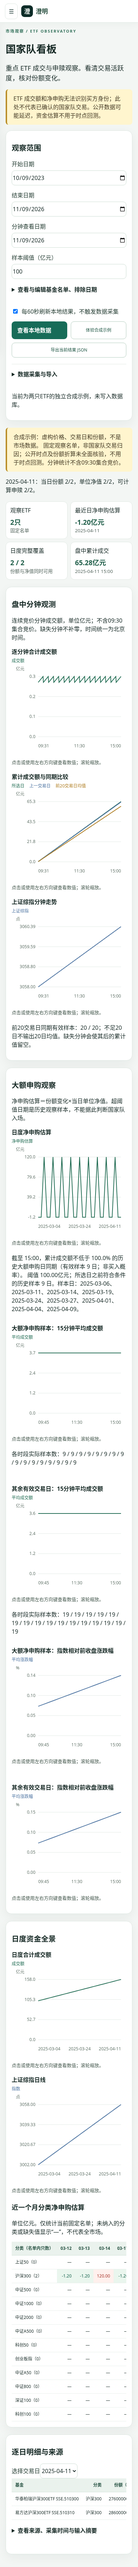
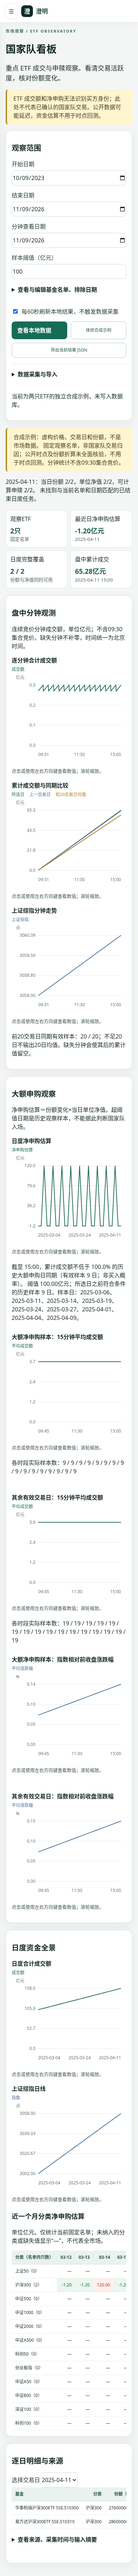
Report empty ETF responses and latest daily collection counts

diff --git a/src/ai_quant_assistant/web/static/national-team.js b/src/ai_quant_assistant/web/static/national-team.js
@@ -9,13 +9,17 @@
       return {code: parts[0].toUpperCase(), name: parts[1], group: parts[2]};
     });
   }
+  function countsText(counts) {
+    if (!counts) return "旧任务未记录各类返回条数";
+    return `本次接口返回：日线 ${counts.daily||0} 条、份额 ${counts.shares||0} 条、净值 ${counts.nav||0} 条、分钟 ${counts.minute||0} 条（含已存储的重复记录）`;
+  }
   function pathFor(points, key, x, y) {
     let path = "", open = false;
     points.forEach((p, i) => { const value = numeric(p[key]); if (value === null || !Number.isFinite(value)) {open = false; return;}
       path += `${open ? "L" : "M"}${x(i).toFixed(2)},${y(value).toFixed(2)} `; open = true;
     }); return path;
   }
-  if (typeof module !== "undefined") module.exports = {money, numeric, parseFunds, pathFor};
+  if (typeof module !== "undefined") module.exports = {money, numeric, parseFunds, pathFor, countsText};
   if (typeof document === "undefined") return;
   const $ = id => document.getElementById(id), api = "/api/v1/national-team";
   const el = (tag, text, cls) => {const node = document.createElement(tag); if(text !== undefined) node.textContent = text; if(cls) node.className=cls; return node;};
@@ -55,8 +59,8 @@
   function render(data){observers.forEach(o=>o.disconnect());observers=[];current=data;$("nt-results").hidden=false;$("nt-banner").textContent=(data.demo?"合成示例：虚构价格、交易日和份额，不是市场数据。 ":"")+data.warning;
     const last=data.daily.at(-1),lastMinute=[...data.minute].reverse().find(p=>p.cumulative!==null&&p.cumulative!==undefined);
     $("nt-metrics").replaceChildren();for(const [label,value,note] of [["观察ETF",data.funds.length+"只","固定名单"],["最近日净申购估算",last?.flow==null?"待补齐":money(last.flow)+"亿元",last?.date||"暂无数据"],["日度完整覆盖",(last?.covered||0)+" / "+data.funds.length,"份额与净值同时可用"],["盘中累计成交",money(lastMinute?.cumulative)+"亿元",data.selected_day+" "+(lastMinute?.time||"待更新")]]){const card=el("div",undefined,"nt-metric");card.append(el("span",label),el("strong",value),el("small",note));$("nt-metrics").append(card);}
-    const sourceErrors=(data.batches||[]).flatMap(b=>b.errors||[]);
-    $("nt-coverage").textContent=last?`${last.date}：当日份额 ${(last.details||[]).filter(x=>x.shares!=null).length}/${data.funds.length}，单位净值 ${(last.details||[]).filter(x=>x.nav!=null).length}/${data.funds.length}，可计算申赎 ${last.covered}/${data.funds.length}。`+(last.covered<data.funds.length?" 缺失原因见逐日明细。收盘后净值或份额可能尚未披露；自动分钟采集不会补齐日度数据。":"")+(sourceErrors.length?" 最近来源错误："+sourceErrors.slice(0,8).map(e=>e.partition+"："+(e.reason||e.error)+(e.http_status?" HTTP "+e.http_status:"")).join("；"):""):"暂无交易日数据。";
+    const sourceErrors=data.latest_daily?.result?.errors||[];
+    $("nt-coverage").textContent=last?`${last.date}：当日份额 ${(last.details||[]).filter(x=>x.shares!=null).length}/${data.funds.length}，单位净值 ${(last.details||[]).filter(x=>x.nav!=null).length}/${data.funds.length}，可计算申赎 ${last.covered}/${data.funds.length}。`+(last.covered<data.funds.length?" 缺失原因见逐日明细。收盘后净值或份额可能尚未披露；自动分钟采集不会补齐日度数据。":"")+(data.latest_daily?" 最近日度任务 "+data.latest_daily.start+" 至 "+data.latest_daily.end+"，结束于 "+data.latest_daily.completed_at+"；"+countsText(data.latest_daily.result?.received_counts)+"。":" 未找到与当前名单和日期匹配的已结束日度任务。")+(sourceErrors.length?" 该任务来源提示："+sourceErrors.slice(0,8).map(e=>e.partition+"："+(e.reason||e.error)+(e.http_status?" HTTP "+e.http_status:"")).join("；"):""):"暂无交易日数据。";
     const green="#216c53",blue="#4c73a1",gold="#af7d21";
     chart("nt-minute-chart","逐分钟合计成交额",data.minute,[{key:"amount",name:"成交额",color:green}]);
     chart("nt-cumulative-chart","累计成交额与同期比较",data.minute,[{key:"cumulative",name:"所选日",color:green},{key:"previous",name:"上一交易日",color:blue},{key:"mean20",name:"前20交易日均值",color:gold}]);
@@ -70,12 +74,12 @@
     const recent=data.daily.filter(p=>!cutoff||p.date>=cutoff.toISOString().slice(0,10));
     table($("nt-heatmap"),["分类（名单内只数）",...recent.map(p=>p.date.slice(5))],groups.map(g=>[g+"（"+data.funds.filter(f=>f.group===g).length+"）",...recent.map(p=>({text:money(p.groups[g]?.flow),cls:numeric(p.groups[g]?.flow)>0?"nt-positive":numeric(p.groups[g]?.flow)<0?"nt-negative":""}))]));
     $("nt-detail-day").replaceChildren();for(const p of data.daily) {const option=el("option",p.date);option.value=p.date;$("nt-detail-day").append(option);}if(latest)$("nt-detail-day").value=latest;details();
-    $("nt-provenance").textContent=JSON.stringify({batches:data.batches,funds:data.funds,scope:data.scope,start:data.start,end:data.end,version:data.version,threshold:data.threshold,excluded:data.excluded,input_sha256:data.input_sha256,as_of:data.as_of},null,2);
+    $("nt-provenance").textContent=JSON.stringify({latest_daily:data.latest_daily,batches:data.batches,funds:data.funds,scope:data.scope,start:data.start,end:data.end,version:data.version,threshold:data.threshold,excluded:data.excluded,input_sha256:data.input_sha256,as_of:data.as_of},null,2);
   }
   function details(){const p=current?.daily.find(x=>x.date===$("nt-detail-day").value);table($("nt-details"),["基金","分类","份额（份）","单位净值","份额变化","估算净申购（亿元）","成交额（亿元）","缺失原因"],(p?.details||[]).map(x=>[x.name+" "+x.code,x.group,x.shares??"—",x.nav??"—",x.change??"—",x.corporate_action?"折算待核验":money(x.flow),money(x.amount),(x.missing||[]).join("、")||"完整"]));}
   async function query(){const own=++generation,body=scope();$("nt-status").textContent="正在读取本地数据…";try {const data=await request("/query",body);if(own!==generation)return;render(data);dirty=false;$("nt-status").textContent=data.daily.length?"已读取本地数据；编辑参数后须重新查询。":"本地无可用交易日历；可先体验合成示例或同步数据。";} catch(error) {if(own===generation) throw error;}}
   function guard(fn){return async()=>{try{await fn();}catch(e){$("nt-status").textContent=e.message;}};}
-  async function poll(){clearTimeout(taskTimer);if(!taskId)return;try{const t=await request("/tasks/"+encodeURIComponent(taskId));$("nt-task").textContent=t.status+" · "+t.progress+"% · "+t.message+(t.error?" · "+t.error:"")+(t.result?.errors?.length?" · "+t.result.errors.slice(0,5).map(e=>e.partition+":"+(e.reason||e.error)+(e.http_status?" HTTP "+e.http_status:"")).join("；"):"");if(["queued","running"].includes(t.status)){taskTimer=setTimeout(poll,2500);}else{$("nt-resume").hidden=true;sessionStorage.removeItem("nt-task");taskId=null;$("nt-task").textContent+="。请点击查看本地数据刷新结果。";}}catch(e){$("nt-task").textContent="进度查询失败："+e.message;$("nt-resume").hidden=false;}}
+  async function poll(){clearTimeout(taskTimer);if(!taskId)return;try{const t=await request("/tasks/"+encodeURIComponent(taskId));$("nt-task").textContent=t.status+" · "+t.progress+"% · "+t.message+(t.result?" · "+(t.result.mode==="minute"?"分钟采集":"日度采集")+" "+(t.result.start||"")+" 至 "+(t.result.end||"")+" · "+countsText(t.result.received_counts):"")+(t.error?" · "+t.error:"")+(t.result?.errors?.length?" · "+t.result.errors.slice(0,5).map(e=>e.partition+":"+(e.reason||e.error)+(e.http_status?" HTTP "+e.http_status:"")).join("；"):"");if(["queued","running"].includes(t.status)){taskTimer=setTimeout(poll,2500);}else{$("nt-resume").hidden=true;sessionStorage.removeItem("nt-task");taskId=null;$("nt-task").textContent+="。请点击查看本地数据刷新结果。";}}catch(e){$("nt-task").textContent="进度查询失败："+e.message;$("nt-resume").hidden=false;}}
   function confirmed(){if(!$("nt-confirm").checked)throw Error("请勾选确认后再采集或更改计划");}
   async function sync(mode){confirmed();const t=await request("/sync",{...scope(),mode,confirm:true});taskId=t.task_id;sessionStorage.setItem("nt-task",taskId);poll();}
   async function schedule(enabled){confirmed();const result=await request("/schedule",{scope:scope(),enabled,confirm:true});$("nt-schedule").textContent=result.enabled?"交易时段自动采集已启用（服务器统一运行）；关闭页面后仍执行。":"自动采集已停止；已提交的任务会完成。";}

diff --git a/src/ai_quant_assistant/storage/national_team.py b/src/ai_quant_assistant/storage/national_team.py
@@ -3,6 +3,7 @@
 import hashlib
 import json
 import time
+from collections import Counter
 from datetime import UTC, date, datetime, timedelta
 from decimal import Decimal, InvalidOperation
 from threading import RLock
@@ -94,6 +95,7 @@ class NationalTeamService:
 
     def save(self, spec, rows, source, errors=(), task_id=None, owner=None):
         rows = validate_rows(rows, max_rows=600000)
+        received_counts = dict(Counter(r["kind"] for r in rows))
         batch = "national-team-" + uuid4().hex
         self.database.initialize()
         with self.database.connect() as c:
@@ -116,7 +118,7 @@ class NationalTeamService:
                 if rows:
                     c.executemany("INSERT INTO national_team_observation VALUES (?,?,?,?,?)", [(batch, r["kind"], r["code"], r["stamp"], _canonical(r)) for r in rows])
                 if task_id:
-                    result = _canonical({"batch_id": batch, "records": len(rows), "errors": errors})
+                    result = _canonical({"batch_id": batch, "records": len(rows), "received_counts": received_counts, "mode": spec.get("mode"), "start": spec.get("start"), "end": spec.get("end"), "errors": errors})
                     c.execute("UPDATE operation_task SET status='succeeded',progress=100,message=?,result_json=?,completed_at=CURRENT_TIMESTAMP,updated_at=CURRENT_TIMESTAMP,claim_key=NULL WHERE task_id=? AND owner_id=?", ["已保存；部分来源失败" if errors else "采集完成；覆盖情况以看板为准", result, task_id, owner])
                 c.execute("COMMIT")
             except Exception:
@@ -142,10 +144,19 @@ class NationalTeamService:
         spec = scope.model_dump(mode="json")
         start = (scope.start - timedelta(days=45)).isoformat()
         days = self.days(start, spec["end"])
-        rows, batches = [], []
+        rows, batches, latest_daily = [], [], None
         if self.database.path.is_file():
             with self.database.connect(read_only=True) as c:
                 codes = [f.code for f in scope.funds] + ["INDEX.000001"]
+                tasks = c.execute("""SELECT spec_json,result_json,status,message,completed_at FROM operation_task
+                    WHERE json_extract_string(spec_json,'$.dataset')='national_team'
+                    AND json_extract_string(spec_json,'$.mode')='daily' AND completed_at IS NOT NULL
+                    ORDER BY completed_at DESC LIMIT 30""").fetchall()
+                for t in tasks:
+                    task_spec = json.loads(t[0])
+                    if {f["code"] for f in task_spec["funds"]} == set(codes) - {"INDEX.000001"} and task_spec["start"] <= spec["end"] and task_spec["end"] >= spec["start"]:
+                        latest_daily = {"start": task_spec["start"], "end": task_spec["end"], "completed_at": t[4].isoformat(), "status": t[2], "message": t[3], "result": json.loads(t[1]) if t[1] else None}
+                        break
                 placeholders = ",".join("?" for _ in codes)
                 raw = c.execute(f"""SELECT payload_json, batch_id FROM (
                     SELECT o.*, row_number() OVER (PARTITION BY kind,code,stamp ORDER BY b.created_at DESC,b.batch_id DESC) AS rank
@@ -158,7 +169,7 @@ class NationalTeamService:
                 if ids:
                     batches = [{"batch_id": r[0], "source": r[1], "fetched_at": r[2].isoformat(), "errors": json.loads(r[3])} for r in c.execute("SELECT batch_id,source,created_at,errors_json FROM national_team_batch WHERE batch_id IN (" + ",".join("?" for _ in ids) + ") ORDER BY created_at DESC", ids).fetchall()]
         result = calculate(spec["funds"], days, rows, spec["start"], spec["end"], spec["selected_day"], spec["threshold"], spec["excluded"])
-        result.update(batches=batches, calendar_days=len(days), as_of=datetime.now(UTC).isoformat(),
+        result.update(batches=batches, latest_daily=latest_daily, calendar_days=len(days), as_of=datetime.now(UTC).isoformat(),
                       input_sha256=hashlib.sha256(_canonical(sorted(rows, key=lambda r: (r["kind"], r["code"], r["stamp"]))).encode()).hexdigest())
         return result
 
@@ -245,7 +256,10 @@ class NationalTeamService:
                 if not self.tasks.progress(task_id, owner_id=owner, progress=int(95 * i / len(calls)), message=f"采集 {key}"):
                     return
                 try:
-                    rows.extend(validate_rows(fetch()))
+                    fetched = validate_rows(fetch())
+                    if not fetched:
+                        errors.append({"partition": key, "error": "EmptyResponse", "reason": "接口未返回所请求范围的数据"})
+                    rows.extend(fetched)
                     failures[family] = 0
                 except Exception as exc:
                     # Never include provider URLs, headers or credential values.
@@ -262,7 +276,7 @@ class NationalTeamService:
                     failures[family] = failures.get(family, 0) + 1
             errors.extend({"partition": family, "error": "StoppedAfterFiveFailures", "count": count} for family, count in skipped.items())
             if not rows:
-                self.tasks.fail(task_id, owner_id=owner, message="所有来源均未返回有效记录，已有数据保留", error="请查看各来源错误", result={"errors": errors})
+                self.tasks.fail(task_id, owner_id=owner, message="所有来源均未返回有效记录，已有数据保留", error="请查看各来源错误", result={"errors": errors, "received_counts": {}, "mode": spec["mode"], "start": spec["start"], "end": spec["end"]})
                 return
             self.save(spec, rows, "public:exchange/eastmoney", errors, task_id, owner)
         except Exception as exc:

diff --git a/tests/test_national_team.py b/tests/test_national_team.py
@@ -314,3 +314,31 @@ def test_nav_failure_does_not_prevent_share_collection(app):
     assert result["daily"][0]["details"][0]["missing"] == ["当日单位净值"]
     assert result["daily"][0]["flow"] is None
     assert any(e.get("reason") == "净值分页不完整，未发布此基金净值" for e in result["batches"][0]["errors"])
+
+
+def test_empty_daily_inputs_are_visible_and_received_counts_survive_dedup(app):
+    service = app.state.national_team
+    service.database.initialize()
+    with service.database.connect() as c:
+        for n, day in enumerate(DAYS):
+            c.execute("INSERT INTO trading_calendar(exchange,trade_date,is_open,source,source_batch_id,session_no) VALUES ('SSE',?,TRUE,'fixture','fixture',?)", [day, n])
+    class Provider:
+        def bars(self, code, start, end, minute=False):
+            return [r for r in rows() if r["kind"] == "daily" and r["code"] == code]
+        def fetch_nav(self, *args):
+            return []
+        def fetch_shares(self, *args):
+            return []
+    service.provider = Provider()
+    for run in range(2):
+        task = service.request(**scope().model_dump(), confirm=True)
+        service.run(task["task_id"])
+        finished = service.tasks.get(task["task_id"])
+        assert finished["result"]["received_counts"] == {"daily": 6}
+        assert any(e["partition"].startswith("nav:") and e["error"] == "EmptyResponse" for e in finished["result"]["errors"])
+        assert any(e["partition"].startswith("shares:") and e["error"] == "EmptyResponse" for e in finished["result"]["errors"])
+        if run:
+            assert finished["result"]["records"] == 0
+        latest = service.read(scope())["latest_daily"]
+        assert latest["result"] == finished["result"]
+        assert latest["start"] == "2025-03-04"

diff --git a/docs/national-team-dashboard.md b/docs/national-team-dashboard.md
@@ -24,6 +24,7 @@
 - 深交所份额：沿用 AkShare `fund_scale_daily_szse` 标准化为份。
 - 单位净值：`https://api.fund.eastmoney.com/f10/lsjz`，完整遍历分页，拒绝总数变化、缺页和范围外数据。
 - 日度任务按月采集净值、从近期向过去采集份额；同类来源连续失败5次只暂停该来源，继续尝试其他来源。净值分页使用公开接口的20条/页，并允许超过20页。采集结果及页面显示分区错误、可用的HTTP状态码；查询展示各基金缺失的具体输入。
+- 任务结果分别记录实际返回的日线、份额、净值及分钟条数（含重复返回的已存储记录）；接口返回空列表明确标记 `EmptyResponse`。页面优先展示与当前名单及日期匹配的最近日度任务，历史输入批次错误只保留在来源明细中。旧任务没有条数记录时显示“旧任务未记录”，不会伪造零条。
 - 日线/分钟：`https://push2his.eastmoney.com/api/qt/stock/kline/get`、`trends2/get`，不复权，金额为元。指数固定上证综指000001。
 - 公开分钟源最近约5个交易日；系统持续保留本地记录，20日均值需积累或导入。无法承诺从2023年回补分钟历史或实时无延迟。统计采用分钟结束标签09:31–11:30、13:01–15:00，不含09:30集合竞价；因此分钟金额合计可能不同于完整日度成交额。
 - 披露时点未知的数据不用于时点回测。没有复现文章未提供的62个日期和排除规则。
